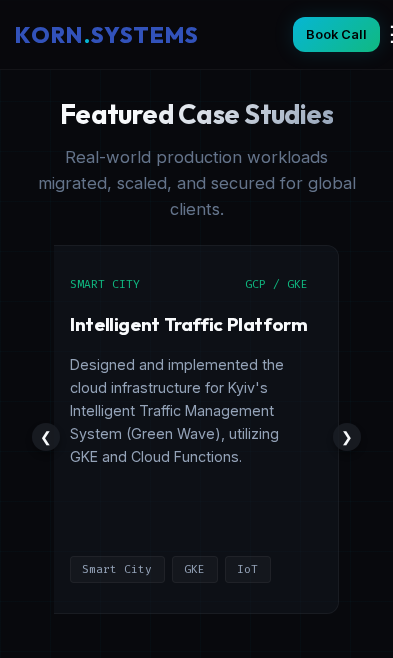
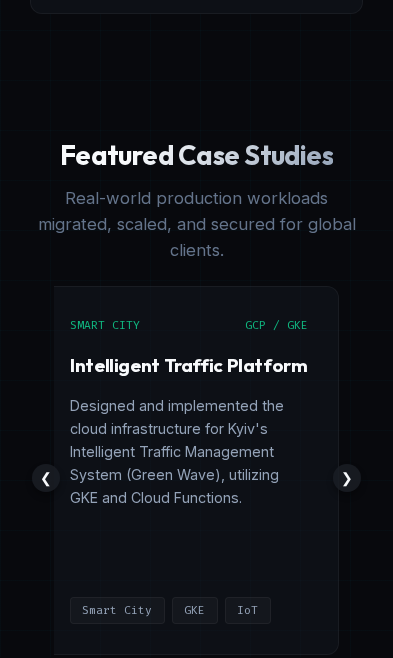
test: conditionally enable webkit for ci and update visual baselines

diff --git a/playwright.config.js b/playwright.config.js
@@ -30,5 +30,17 @@ module.exports = defineConfig({
       name: "Mobile Chrome",
       use: { ...devices["Pixel 5"] },
     },
+    ...(process.env.CI
+      ? [
+          {
+            name: "webkit",
+            use: { ...devices["Desktop Safari"] },
+          },
+          {
+            name: "Mobile Safari",
+            use: { ...devices["iPhone 12"] },
+          },
+        ]
+      : []),
   ],
 });